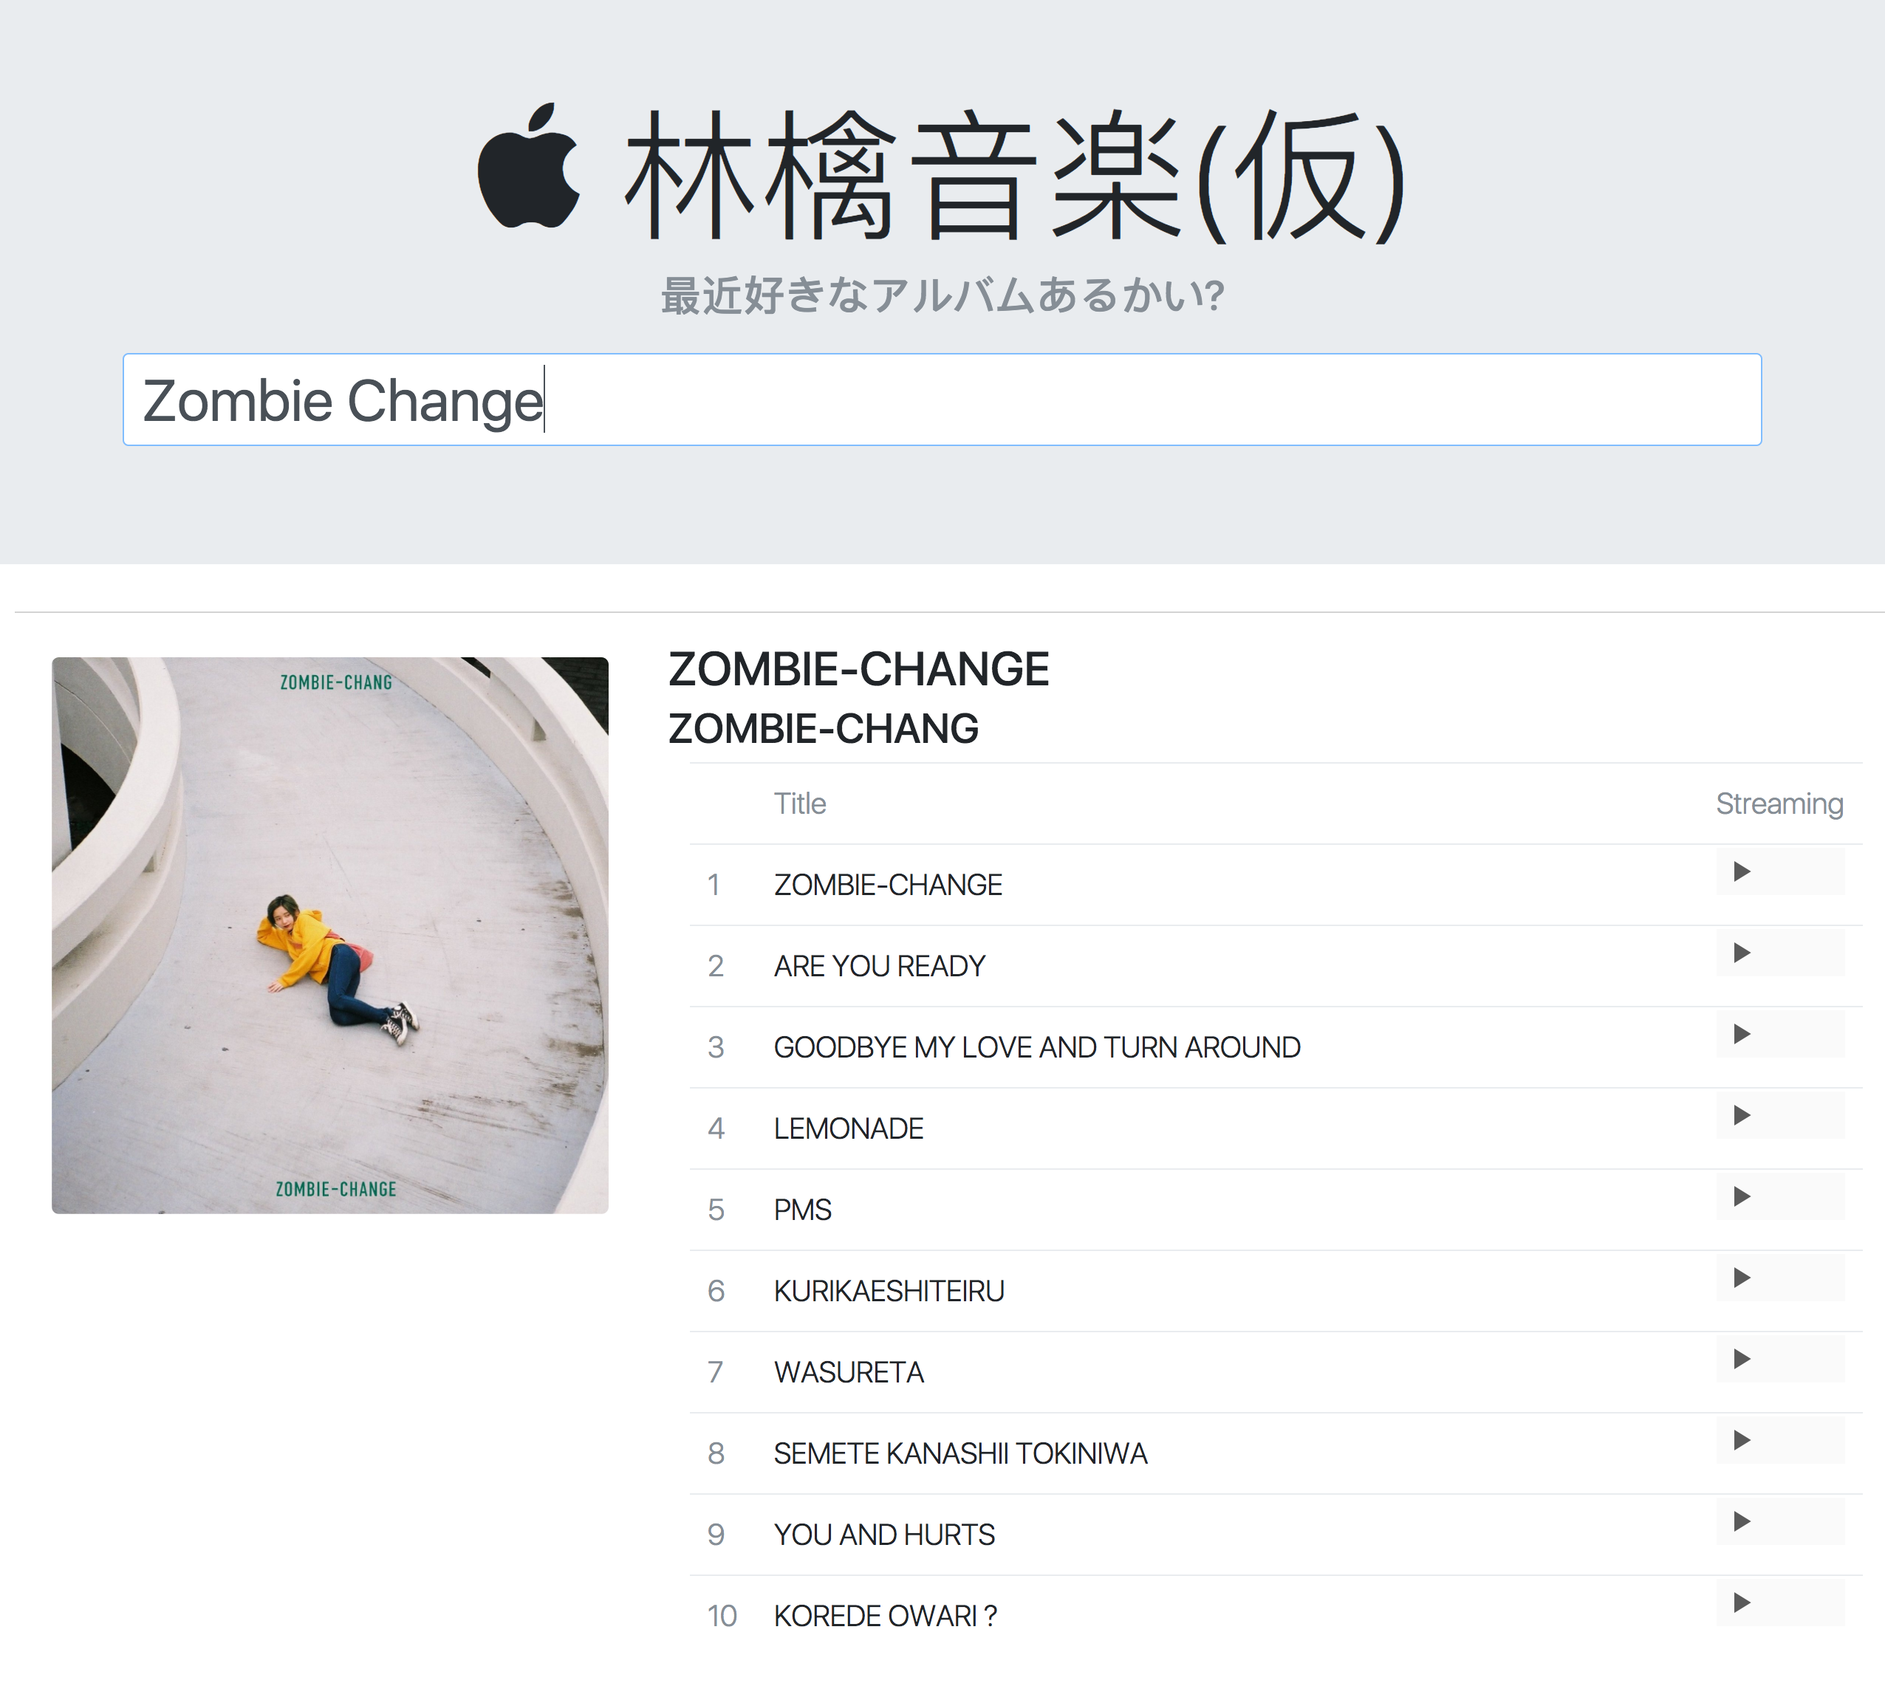
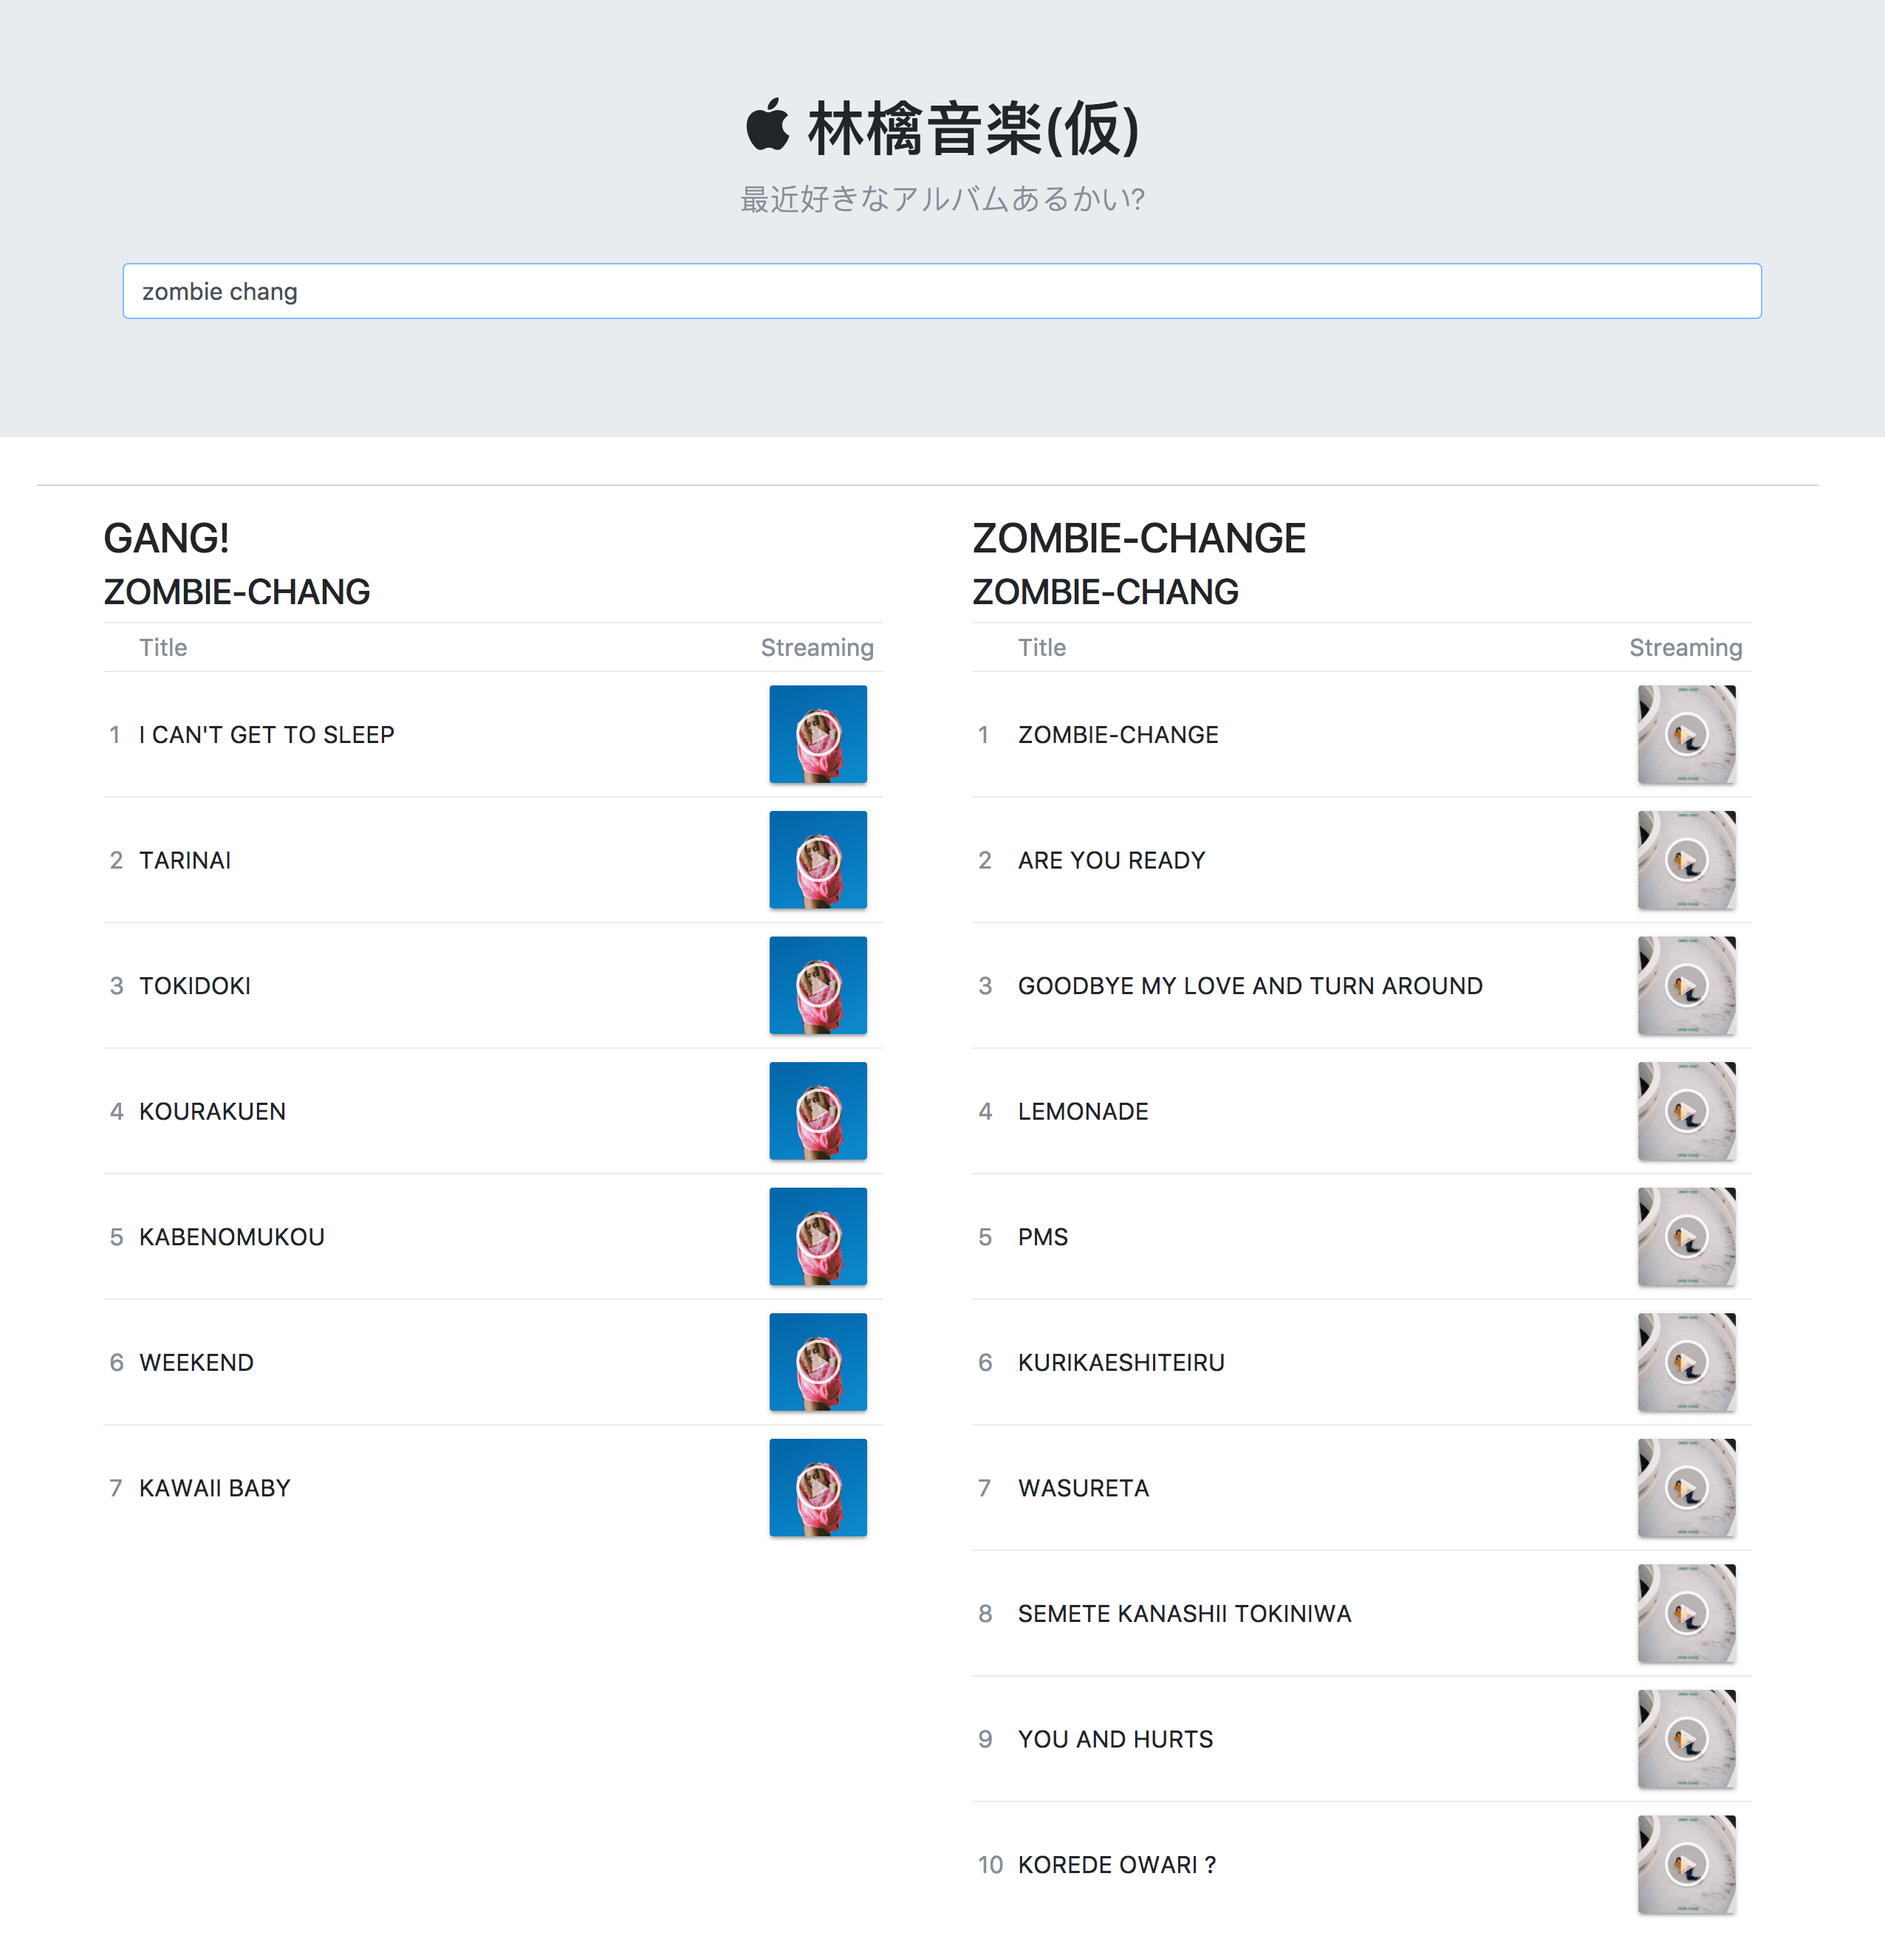
update screenshots

diff --git a/README.md b/README.md
@@ -29,7 +29,7 @@ npm run build --report
 ```
 
 ## Todo
-1. music player.
+1. ~~music player.~~
 2. playlist.
 3. more music streaming api.
 
